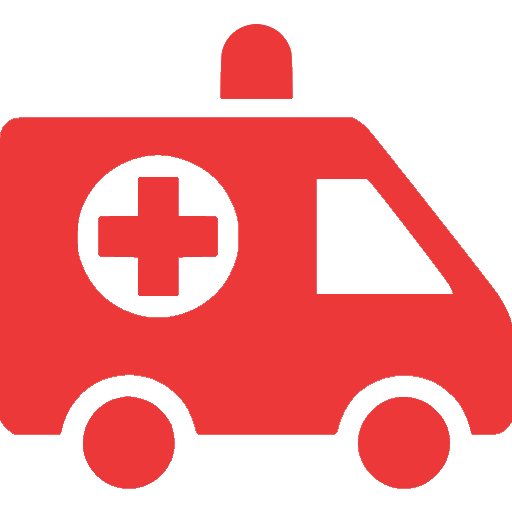
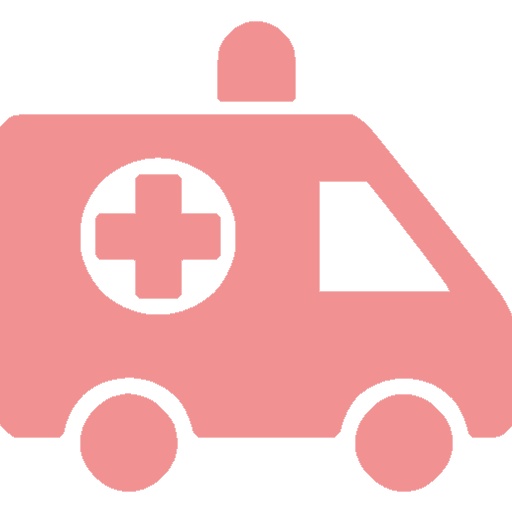
Last changes graficos con warning y colores y texto de retro

diff --git a/Vostok/DashAmbulancia.js b/Vostok/DashAmbulancia.js
@@ -1,5 +1,5 @@
 import React from 'react';
-import { StyleSheet, Text, View, ImageBackground, Dimensions, Button, Image, TouchableOpacity, Platform, ScrollView } from 'react-native';
+import { StyleSheet, Text, View, ImageBackground, Dimensions, Button, Image, TouchableOpacity, Platform, ScrollView, Alert } from 'react-native';
 import styles from './styles/DashStyles.js';
 //FONDO DE LOGIN--
 import background from './imagenes/home_background.jpg';
@@ -51,18 +51,35 @@ export default class Login extends React.Component {
       });
     }
 
+    let confirmation = (idAmbulancia, idInventario, nombreAmbulancia) => () => {
+      Alert.alert(
+        'Confirmación',
+        'Esta ambulancia se usó recientemente ¿Seguro que quieres utilizarla?',
+        [
+          {
+            text: 'No',
+            onPress: () => console.log('Cancel Pressed'),
+            style: 'cancel',
+          },
+          {text: 'Si', onPress: redirect(idAmbulancia, idInventario, nombreAmbulancia)},
+        ],
+        {cancelable: false},
+      );
+    }
+
     let buttonsArray = this.state.ambulancias.map(ambulancia => {
-      let ready = ambulancia.inventarioListo && ambulancia.ambulanciaLista
+      let inactive = ambulancia.inventarioListo && ambulancia.ambulanciaLista
       return(
         <TouchableOpacity key={ambulancia.id}
-          onPress = {redirect(ambulancia.id, ambulancia.idInventario, ambulancia.nombre)}
+        //  onPress = {redirect(ambulancia.id, ambulancia.idInventario, ambulancia.nombre)}
+            onPress = {inactive? confirmation(ambulancia.id, ambulancia.idInventario, ambulancia.nombre) : redirect(ambulancia.id, ambulancia.idInventario, ambulancia.nombre)}
           style={styles.ambulanceContainer} >
           <View style={styles.dir}>
             <Image style={styles.ambulance}
-                source={ready? redAmbulance : ambulance}
+                source={inactive? redAmbulance : ambulance}
                 resizeMode="contain"
             />
-            <Text style={[styles.text, {color: ready?  'red': 'white'}]}> {ambulancia.nombre} </Text>
+            <Text style={[styles.text, {color: inactive?  '#f29191': 'white'}]}> {ambulancia.nombre} </Text>
           </View>
         </TouchableOpacity>
       )
@@ -74,10 +91,12 @@ export default class Login extends React.Component {
       <ScrollView style={styles.scrollView}>
       <View style={styles.buttonContainer}>
         { buttonsArray }
+
       </View>
 
 
       </ScrollView>
+        <Text style={styles.info}> Las ambulancias en rojo fueron utilizadas recientemente </Text>
       </ImageBackground>
 
     );

diff --git a/Vostok/Checklist.js b/Vostok/Checklist.js
@@ -133,7 +133,7 @@ export default class Checklist extends React.Component {
                             onChange={
                               text => {
                                 let copy = this.state
-                                for(let item of copy.materiales){
+                                for(let item of copy.materials){
                                   if(item.id == material.id){
                                     item.cantidad = parseInt(text)
                                     this.setState(copy)

diff --git a/Vostok/styles/DashStyles.js b/Vostok/styles/DashStyles.js
@@ -58,4 +58,19 @@ export default StyleSheet.create({
   },
   scrollView: {
   },
+  info: {
+    fontWeight: 'bold',
+    color: '#ffc1bd',
+    fontSize: 15,
+    marginBottom:20,
+    textAlign: 'center',
+    borderWidth: 0.3  ,
+    borderColor: '#ffc1bd'
+  },
+  infoContainer: {
+    color: '#ffc1bd',
+    borderRadius: 100,
+    borderWidth: 100,
+    borderColor: 'white'
+  },
 });
